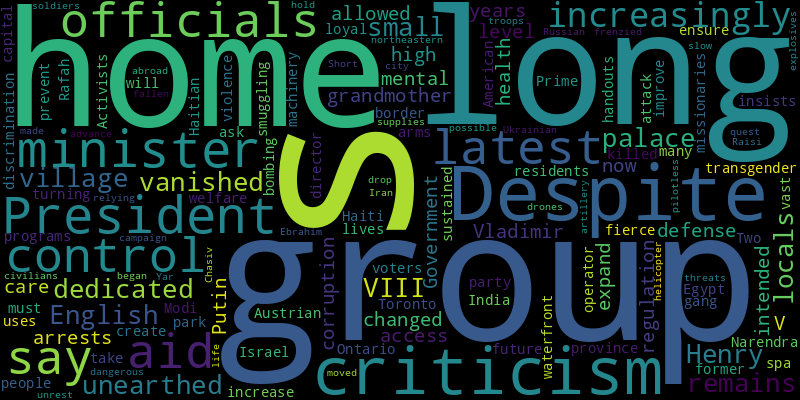
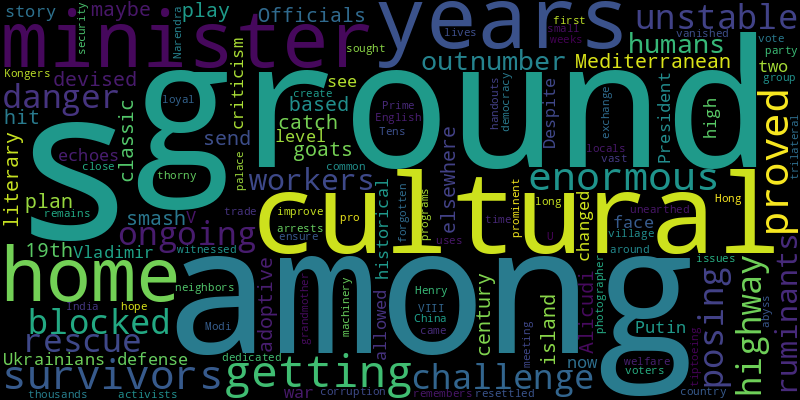
chore(bot): 🙈 auto commit

diff --git a/README.md b/README.md
@@ -2,32 +2,35 @@
 Auto RSS New York Times and Generate Word Cloud
 
 ## New York Times Global News
-* In a small English village, a group of dedicated locals has unearthed the remains of a long-vanished palace that had been home to Henry VIII’s grandmother.
+* 
+* Just getting to survivors has proved to be an enormous challenge, with a blocked highway and unstable ground “posing ongoing danger” to rescue workers.
+* The ruminants outnumber humans on the Mediterranean island of Alicudi 6 to 1 (maybe more). Officials have devised a plan to catch the goats and send them to adoptive homes elsewhere.
+* A play based on an 19th-century literary classic is a smash hit among Ukrainians who see in the story cultural and historical echoes of what they face after two years of war.
 * Despite years of criticism, President Vladimir V. Putin has only now changed his defense minister and allowed high-level corruption arrests.
-* Government officials say the regulation was intended to expand mental health care access for transgender people. Activists say it will increase discrimination.
-* Officials in Toronto and many residents ask why the province of Ontario is turning a former waterfront park over to an Austrian spa operator.
+* In the first trilateral meeting since 2019, the neighbors sought common ground in trade and cultural exchange while tiptoeing around thorny security issues.
+* Tens of thousands of Hong Kongers have resettled in the U.K. since 2021, among them prominent pro-democracy activists. China has not forgotten them.
+* In a small English village, a group of dedicated locals has unearthed the remains of a long-vanished palace that had been home to Henry VIII’s grandmother.
+* The vote in 1994 was a time of hope — but in the weeks before, the country came close to the abyss. A photographer remembers what he witnessed.
 * India’s welfare programs improve lives. Prime Minister Narendra Modi’s party uses its vast machinery to ensure the handouts also create loyal voters.
-* Despite fierce criticism, Israel insists it must take control of Rafah and the border with Egypt to prevent future arms smuggling.
-* Two American missionaries and a Haitian aid director were killed, the latest gang violence against aid groups in Haiti’s capital.
-* It was the latest attack in a sustained bombing campaign that has made life increasingly dangerous for civilians in the northeastern Ukrainian city.
-* As a frenzied quest began for the fallen helicopter of President Ebrahim Raisi, Iran moved to control possible threats from abroad and unrest at home.
-* Short of troops and artillery, soldiers increasingly have been relying on pilotless drones to drop explosives and supplies to hold Chasiv Yar. But how long can they slow the Russian advance?
 
 ![Global](./global.png)
 ## New York Times United States News
-* Justine Payton was drawn to a Hare Krishna ashram for its yoga, meditation and vegan meals. She’s still figuring out what went wrong.
-* The Black and Latino families of Section 14, who made up much of the labor force of Palm Springs, are asking for reparations for what they say was a racially motivated attack.
+* Railroad unions are raising safety concerns about the growing use of remote-controlled trains after a rash of fatal accidents.
+* The jury unanimously sided with the performer in a case against a blogger who made false claims that the artist had exposed himself to a crowd at a pride event in 2022.
 * The billionaire Rob Hale gave the 1,200 graduates of the University of Massachusetts Dartmouth a gift, and asked them to give, too.
 * The job is not what it used to be. There are openings at U.C.L.A., Yale, Harvard, Cornell, Penn … and many, many others.
-* Former President Donald J. Trump has a history of attacking investigators, blaming President Biden and seeking vengeance on those who cross him.
-* Russian military intelligence, the G.R.U., is behind arson attacks aimed at undermining support for Ukraine’s war effort, security officials say.
-* In most cities, rates of homicide and violent assault are down significantly from pandemic-era highs. But property crimes have risen, fueling voter anxiety.
-* Out-of-state transplants, drawn during the pandemic by the Mountain West’s allure, have caused prices to soar and created new uncertainty in the state’s crucial Senate race.
-* Rescue teams were beginning to assess the destruction early Sunday after storms overnight damaged homes, downed power lines and flipped trucks.
-* The first-term Pennsylvanian has battled with progressives on Israel, immigration and energy, adopting a more caustic political persona and alienating some supporters.
+* In a new memoir, a retired federal appeals court judge who was once a leading candidate for the Supreme Court reflects on candor and independence.
+* Sgt. Kennedy Sanders was killed in a drone attack on a U.S. outpost in Jordan. A collection of photos offers a glimpse into her life.
+* More tornado watches were issued in the Southeast on Monday, after powerful storms over the weekend left at least 18 dead.
+* The party selected Mr. Oliver as its presidential nominee. He ran for a Senate seat in Georgia in 2022.
+* In a video posted live by Minaj to Instagram, the rapper appeared to step into a law enforcement vehicle after being accused of “carrying drugs.”
+* Shayne Patrick Burke, a disabled veteran in the Army Reserve, said the attack was “the most violent” thing he had experienced, including being shot at.
 
 ![US](./usnews.png)
 ## New York Times Asia News
+* In the first trilateral meeting since 2019, the neighbors sought common ground in trade and cultural exchange while tiptoeing around thorny security issues.
+* The United States and Europe are trying to catch up to a rival skilled in using all the levers of government and banking to dominate global manufacturing.
+* Disasters over the weekend that claimed at least 34 lives prompted condolences, arrests and finger-pointing. But systemic change remains elusive, analysts say.
 * More than 48 hours after the disaster, its full extent remains unclear, with aid slow to reach survivors and conditions on the ground still dangerous.
 * India’s welfare programs improve lives. Prime Minister Narendra Modi’s party uses its vast machinery to ensure the handouts also create loyal voters.
 * Officers said the cause of the fire was still under investigation, but that they planned to charge the owner of the facility with negligence.
@@ -35,8 +38,5 @@ Auto RSS New York Times and Generate Word Cloud
 * Nearly 4,000 people live in villages that were engulfed, a local official said. Unstable debris was complicating search and rescue efforts in a rural part of the Pacific nation.
 * Reviving a Mao-era surveillance campaign, the authorities are tracking residents, schoolchildren and businesses to forestall any potential unrest.
 * U.S.-based Anzu Robotics is selling drones using technology from DJI, a Chinese firm that is the target of efforts by lawmakers to limit Chinese technology in America.
-* The dog, whose face helped spread the popular doge meme and later became the logo of the Dogecoin cryptocurrency, died on Friday.
-* Many more were missing in the Pacific nation as recovery and rescue efforts were delayed by a blocked highway and fallen boulders.
-* Singapore’s public housing system has been a great success and a key factor in the nation’s development. But in recent years, rising prices have raised questions about affordability.
 
 ![Asian](./asian.png)
